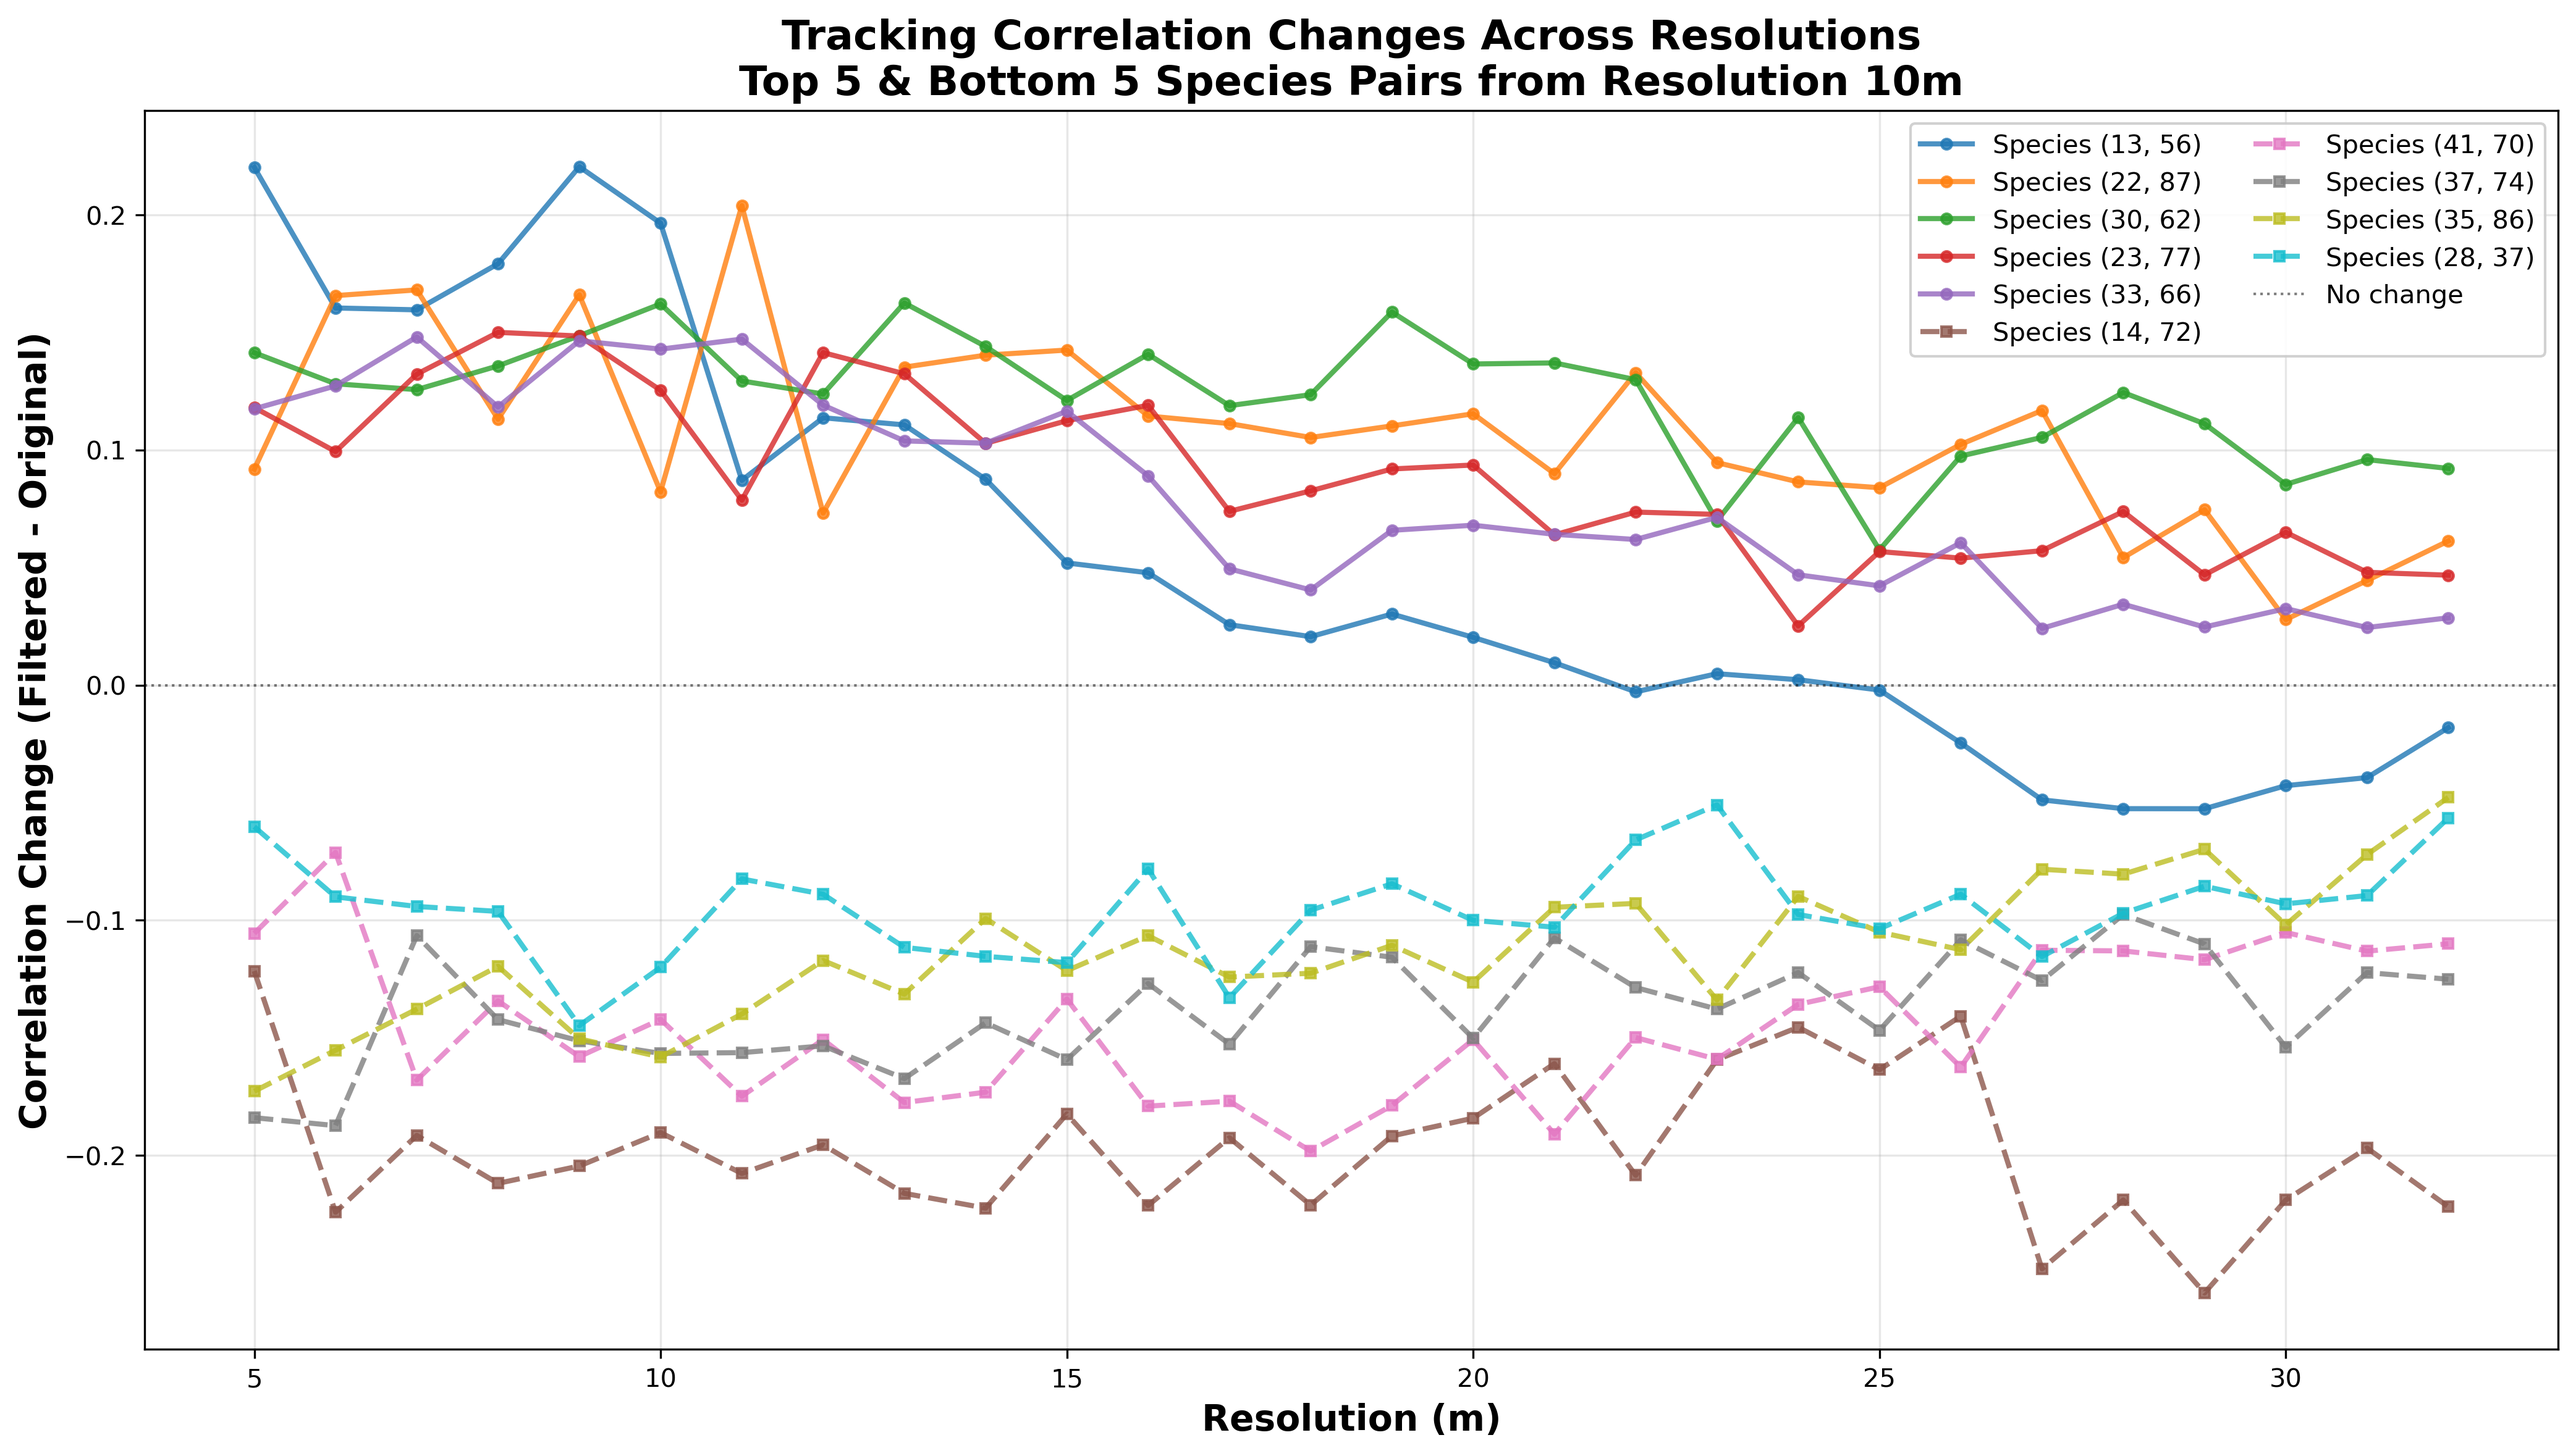
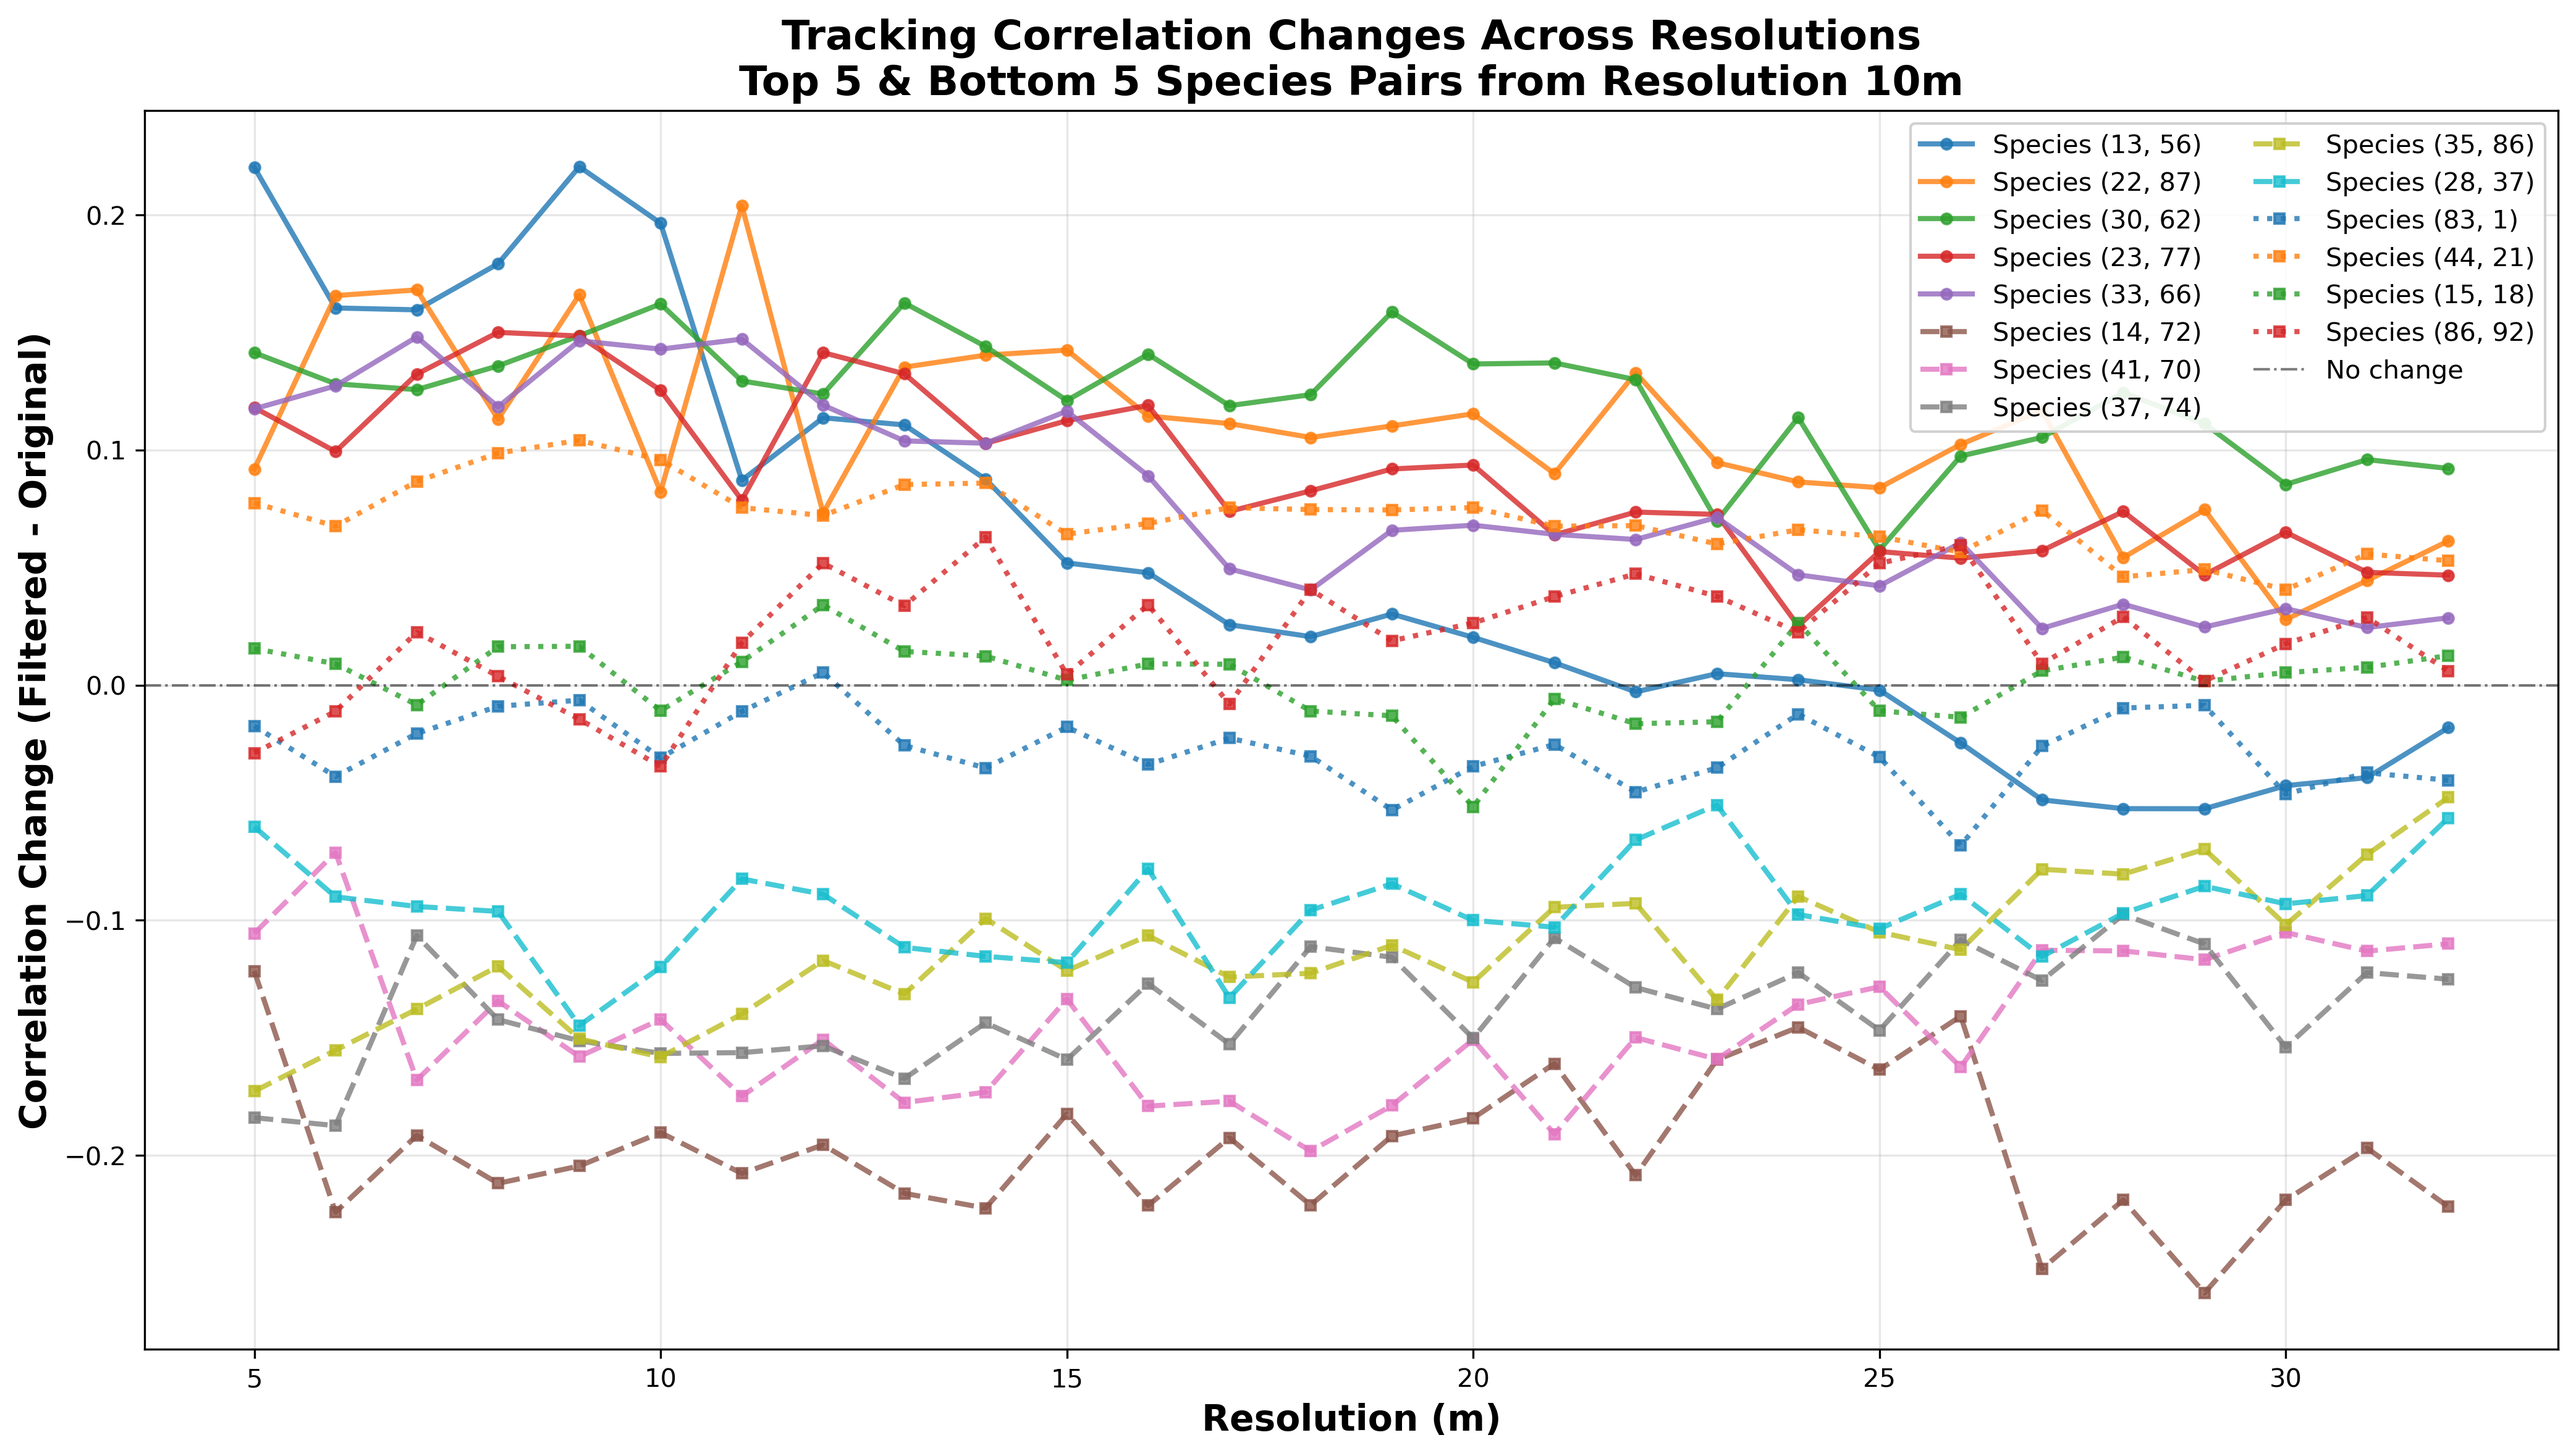
added random species

diff --git a/scripts/filtering_variations.py b/scripts/filtering_variations.py
@@ -14,7 +14,7 @@ resolutions = np.arange(5, 33, 1)
 # Create output directory
 os.makedirs("variations", exist_ok=True)
 
-# Hardcoded pairs from resolution 10
+# Hardcoded pairs from resolution 10 + four random pairs
 top_pairs = [
     (13, 56),
     (22, 87),
@@ -31,6 +31,16 @@ bottom_pairs = [
     (28, 37)
 ]
 
+rng = np.random.default_rng()
+random_pairs = [
+        (rng.integers(1,99),rng.integers(1,99)),
+        (rng.integers(1,99),rng.integers(1,99)),
+        (rng.integers(1,20),rng.integers(1,20)),
+        (rng.integers(70,99),rng.integers(70,99))
+        ]
+
+print(f'Extracted random pairs: {random_pairs}')
+
 # Storage for original correlation values and variations across resolutions
 top_variations = {pair: [] for pair in top_pairs}
 bottom_variations = {pair: [] for pair in bottom_pairs}
@@ -39,6 +49,10 @@ bottom_correlations = {pair: [] for pair in bottom_pairs}
 top_filtered = {pair: [] for pair in top_pairs}
 bottom_filtered = {pair: [] for pair in bottom_pairs}
 
+
+random_variations = {pair: [] for pair in random_pairs}
+random_correlations = {pair: [] for pair in random_pairs}
+random_filtered = {pair: [] for pair in random_pairs}
 # Loop through resolutions and collect correlation values
 for resolution in resolutions:
     print(f'Computing variation for resolution {resolution} m')
@@ -59,6 +73,12 @@ for resolution in resolutions:
         bottom_variations[pair].append(variation[i, j])
         bottom_correlations[pair].append(original[i, j])
         bottom_filtered[pair].append(filtered[i, j])
+
+    for pair in random_pairs:
+        i, j = pair
+        random_variations[pair].append(variation[i, j])
+        random_correlations[pair].append(original[i, j])
+        random_filtered[pair].append(filtered[i, j])
     
     # Create figure for this resolution
     fig, ax = plt.subplots(figsize=(10, 8))
@@ -112,8 +132,15 @@ for pair in bottom_pairs:
             marker='s', linewidth=2, markersize=4,
             label=label, linestyle='--', alpha=0.8)
 
+for pair in random_pairs:
+    label = f"Species ({pair[0]}, {pair[1]})"
+    ax.plot(resolutions, random_variations[pair], 
+            marker='s', linewidth=2, markersize=4,
+            label=label, linestyle=':', alpha=0.8)
+
+
 # Add horizontal line at zero
-ax.axhline(y=0, color='black', linestyle=':', linewidth=1, alpha=0.5, label='No change')
+ax.axhline(y=0, color='black', linestyle='-.', linewidth=1, alpha=0.5, label='No change')
 
 # Labels and styling
 ax.set_xlabel('Resolution (m)', fontsize=14, fontweight='bold')
@@ -152,8 +179,15 @@ for pair in bottom_pairs:
             marker='s', linewidth=2, markersize=4,
             label=label, linestyle='--', alpha=0.8)
 
+for pair in random_pairs:
+    label = f"Species ({pair[0]}, {pair[1]})"
+    ax.plot(resolutions, random_correlations[pair], 
+            marker='s', linewidth=2, markersize=4,
+            label=label, linestyle=':', alpha=0.8)
+
+
 # Add horizontal line at zero
-ax.axhline(y=0, color='black', linestyle=':', linewidth=1, alpha=0.5, label='No change')
+ax.axhline(y=0, color='black', linestyle='-.', linewidth=1, alpha=0.5, label='No change')
 
 # Labels and styling
 ax.set_xlabel('Resolution (m)', fontsize=14, fontweight='bold')
@@ -192,8 +226,15 @@ for pair in bottom_pairs:
             marker='s', linewidth=2, markersize=4,
             label=label, linestyle='--', alpha=0.8)
 
+for pair in random_pairs:
+    label = f"Species ({pair[0]}, {pair[1]})"
+    ax.plot(resolutions, random_filtered[pair], 
+            marker='s', linewidth=2, markersize=4,
+            label=label, linestyle=':', alpha=0.8)
+
+
 # Add horizontal line at zero
-ax.axhline(y=0, color='black', linestyle=':', linewidth=1, alpha=0.5, label='No change')
+ax.axhline(y=0, color='black', linestyle='-.', linewidth=1, alpha=0.5, label='No change')
 
 # Labels and styling
 ax.set_xlabel('Resolution (m)', fontsize=14, fontweight='bold')
